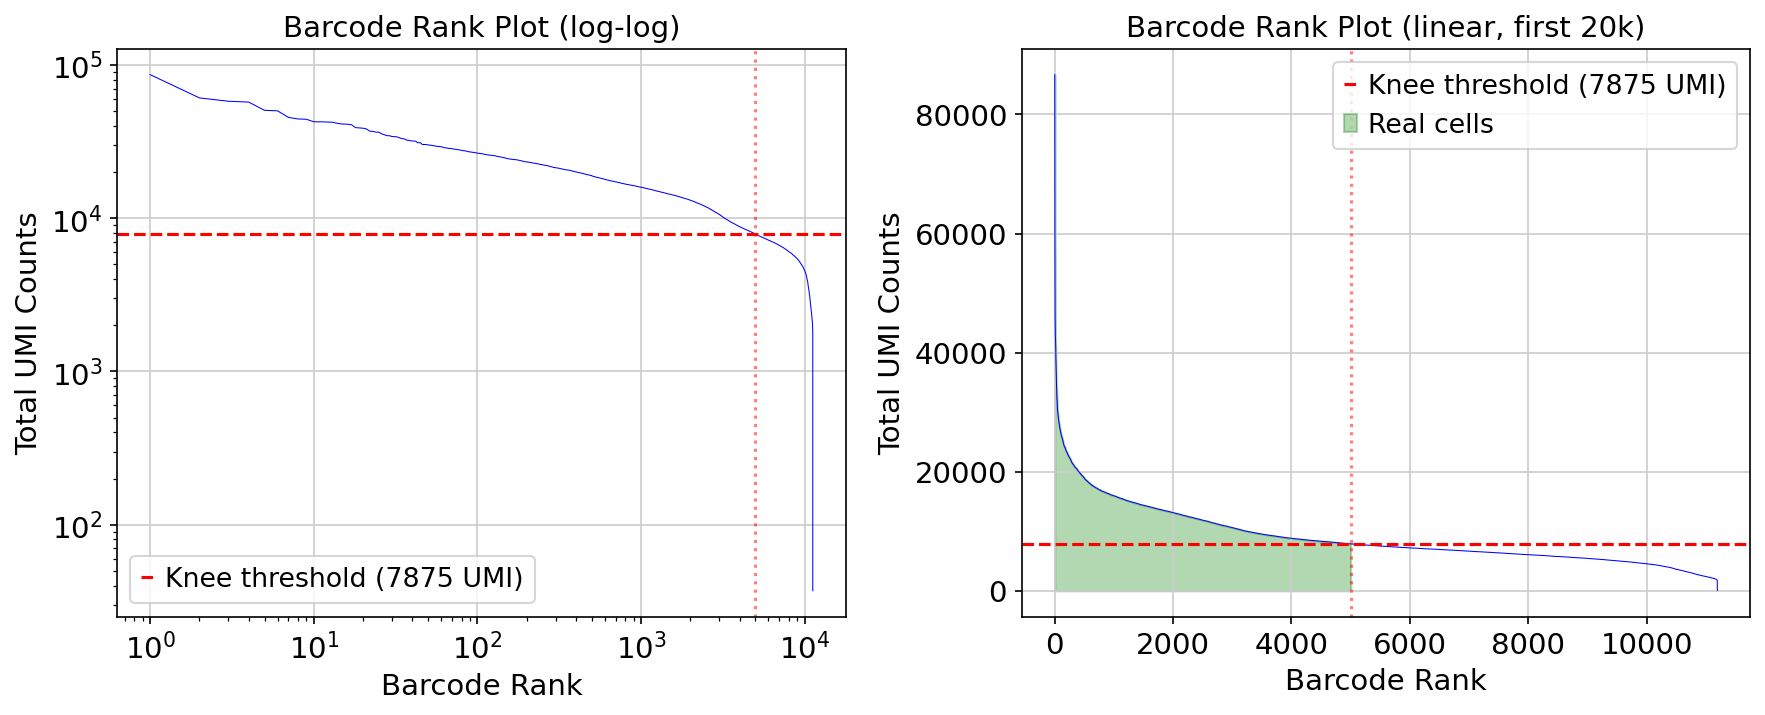
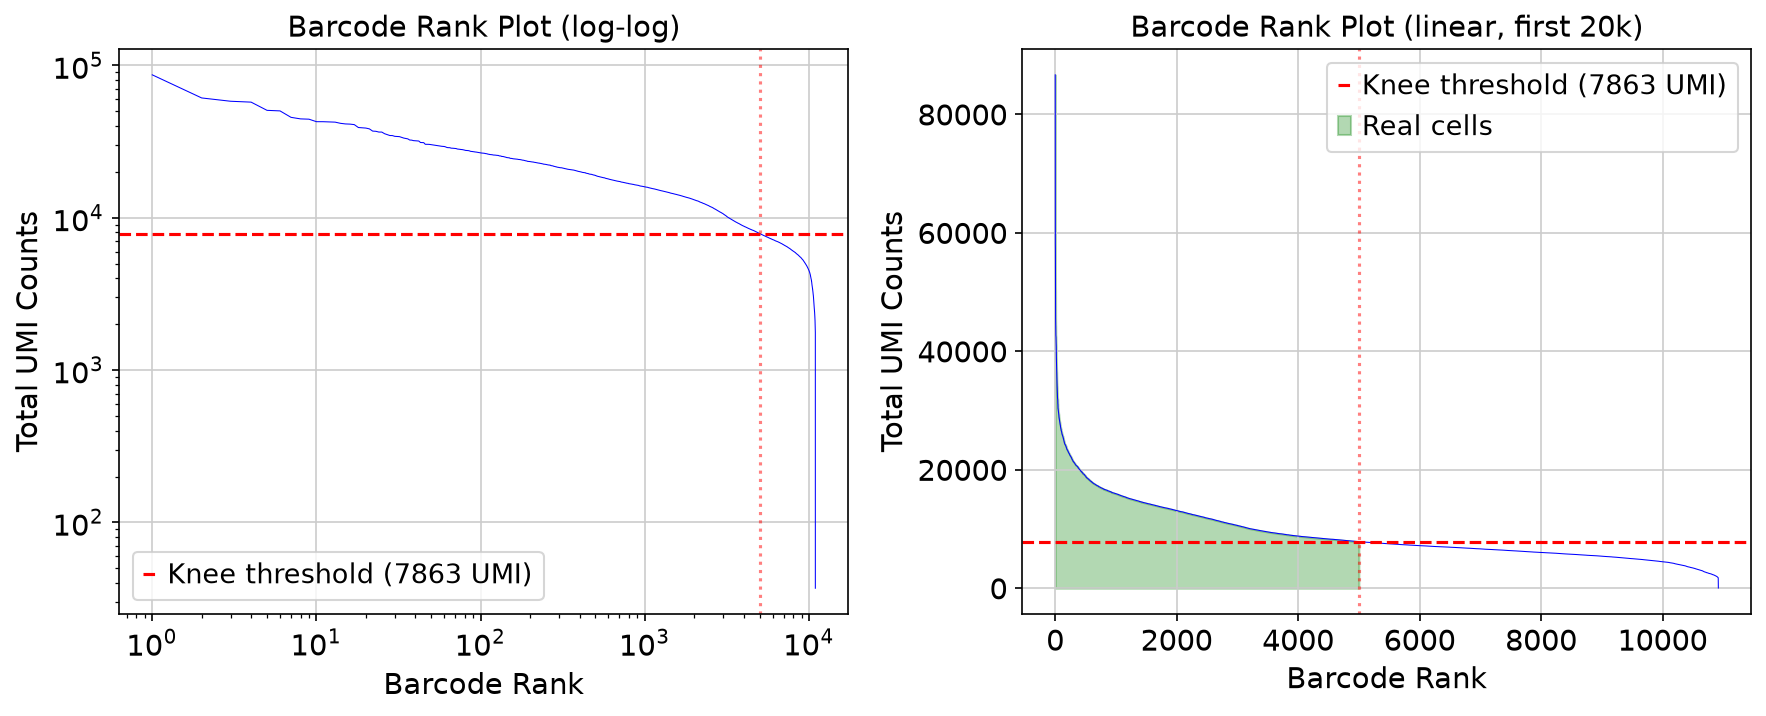
Regenerate downstream analysis figures with current pipeline
Re-ran scripts/downstream_analysis_v3.py and vae_embedding.py against
results/anndata/qc/pbmc_10k_v3.h5ad to refresh the stale example figures
in docs/images/ (previously from an earlier, unversioned run). Also adds
doublet_scores.png, vae_training_loss.png, and umap_vae_markers.png,
which the README's file tree already documented but were never actually
committed.

diff --git a/README.md b/README.md
@@ -210,6 +210,10 @@ CD16+ NK cells  ENSG00000180644  16.38   6.42            2.86e-56    PRF1
 
 ![Barcode Rank Plot](docs/images/barcode_rank_plot.png)
 
+*Doublet Scores* - Scrublet doublet detection on UMAP:
+
+![Doublet Scores](docs/images/doublet_scores.png)
+
 *UMAP Overview* - Leiden clusters and sample distribution:
 
 ![UMAP Overview](docs/images/umap_overview.png)
@@ -226,9 +230,17 @@ CD16+ NK cells  ENSG00000180644  16.38   6.42            2.86e-56    PRF1
 
 ![Volcano Plots](docs/images/volcano_plots_all_celltypes.png)
 
+*VAE Training Loss* - Convergence of the unsupervised VAE:
+
+![VAE Training Loss](docs/images/vae_training_loss.png)
+
 *PCA vs VAE Embedding* - Comparison of dimensionality reduction methods:
 
 ![PCA vs VAE](docs/images/umap_pca_vs_vae.png)
+
+*VAE Marker Expression* - Canonical PBMC markers on the VAE UMAP:
+
+![VAE Markers](docs/images/umap_vae_markers.png)
 
 **Cell Types Identified** (CellTypist on PBMC):
 - CD16+ NK cells, Cycling NK cells
